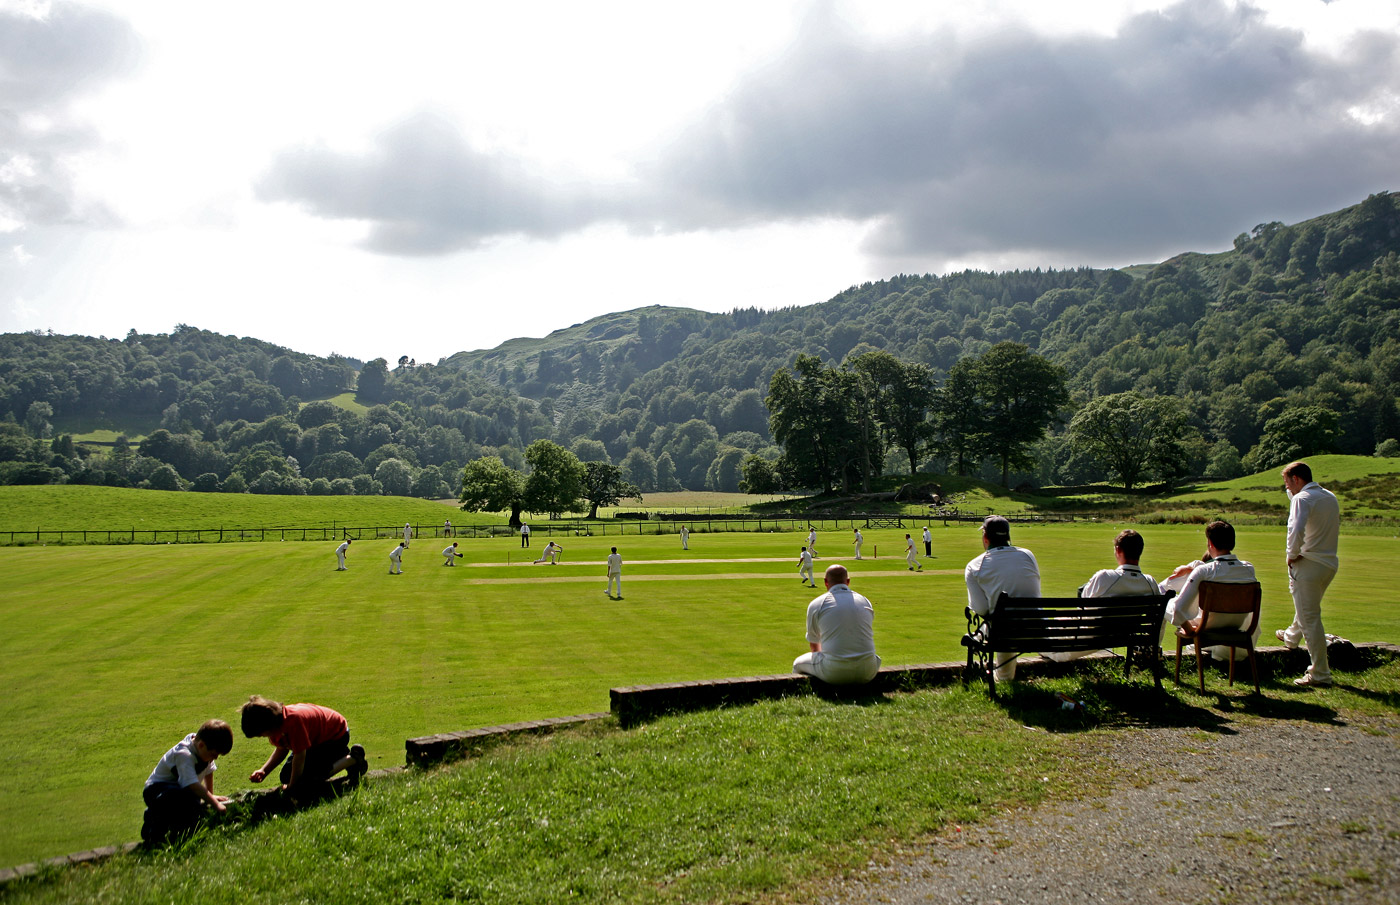
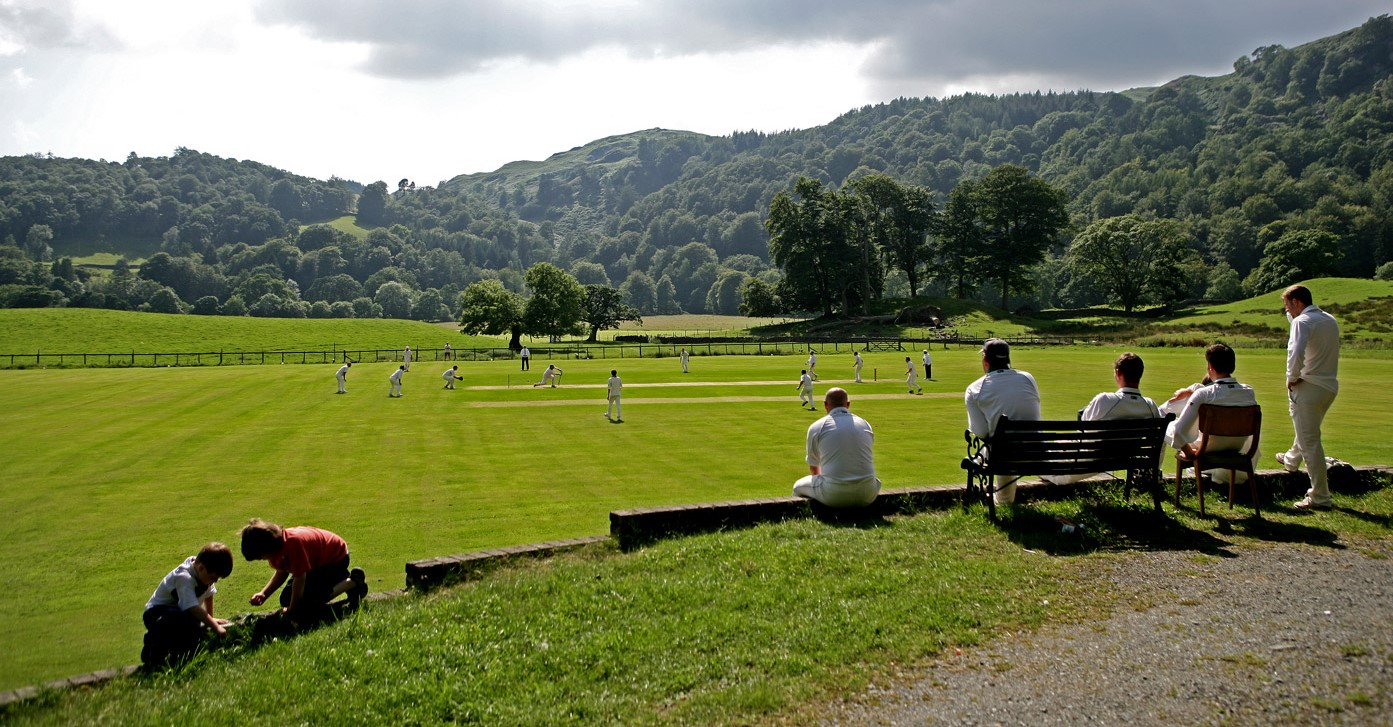
edit hero image

diff --git a/assets/css/style.css b/assets/css/style.css
@@ -47,10 +47,6 @@ h2 {
     font-size: 150%;
     line-height: 160px;
     display: inline;
-
-
-
-
 }
 
 #logo {
@@ -82,14 +78,14 @@ h2 {
 
 /* hero image */
 
-#hero-drift {
+/* #hero-drift {
     height: 800px;
     width: 100%;
     overflow: hidden;
-}
+} */
 
 #hero-image {
-    height: 800px;
+    height: 500px;
     width: 100%;
     background: url('../images/hero-image.jpg') no-repeat center center;
 
